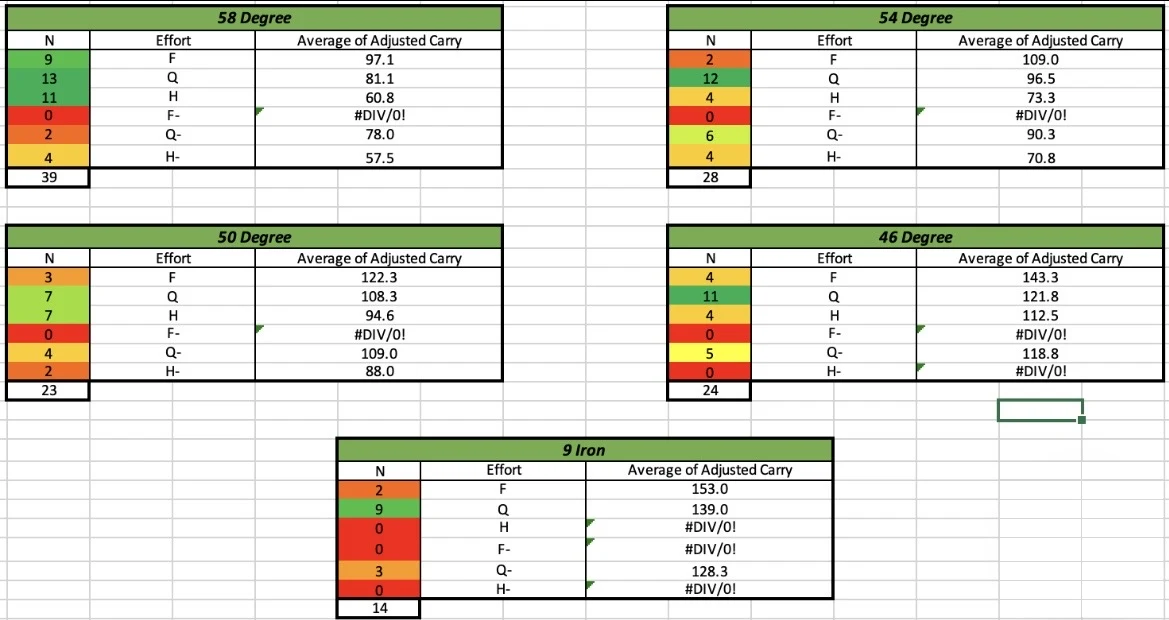
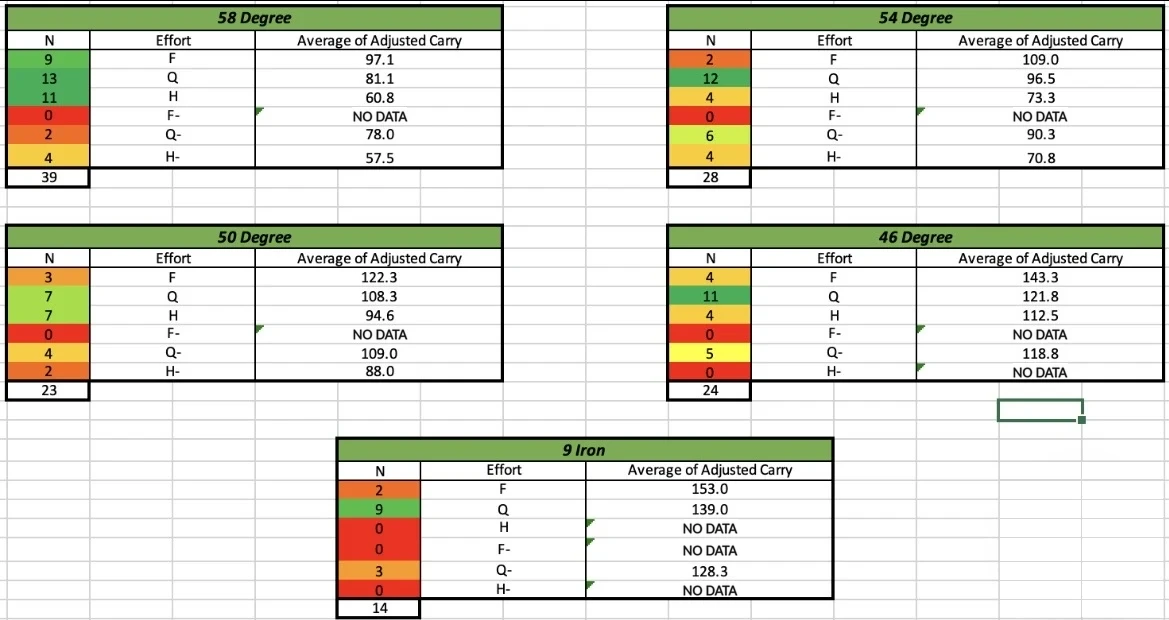
Founder spreadsheet: bigger, NO DATA instead of #DIV/0!
Claude-Session: https://claude.ai/code/session_01NJUMKYMcGw2rW6okt3TvAR

diff --git a/coach.html b/coach.html
@@ -97,7 +97,7 @@ h3{font-weight:800;font-size:20px;line-height:1.25;margin:0 0 6px;letter-spacing
 .step .n{font-size:13px;font-weight:800;color:var(--gold-ink);letter-spacing:.1em;margin-bottom:4px}
 
 .feature{display:grid;grid-template-columns:1fr 1fr;gap:64px;align-items:center}
-.story{display:grid;grid-template-columns:1.05fr .95fr;gap:56px;align-items:center}
+.story{display:grid;grid-template-columns:.85fr 1.15fr;gap:44px;align-items:center}
 .story p{font-size:18px;line-height:1.6;color:var(--ink);margin:0 0 16px}
 .story .sig{font-weight:800;margin-top:22px}.story .sig span{display:block;font-weight:500;color:var(--muted);font-size:15px}
 .stats{display:grid;grid-template-columns:repeat(3,1fr);gap:12px;margin:26px 0 0}

diff --git a/index.html b/index.html
@@ -97,7 +97,7 @@ h3{font-weight:800;font-size:20px;line-height:1.25;margin:0 0 6px;letter-spacing
 .step .n{font-size:13px;font-weight:800;color:var(--gold-ink);letter-spacing:.1em;margin-bottom:4px}
 
 .feature{display:grid;grid-template-columns:1fr 1fr;gap:64px;align-items:center}
-.story{display:grid;grid-template-columns:1.05fr .95fr;gap:56px;align-items:center}
+.story{display:grid;grid-template-columns:.85fr 1.15fr;gap:44px;align-items:center}
 .story p{font-size:18px;line-height:1.6;color:var(--ink);margin:0 0 16px}
 .story .sig{font-weight:800;margin-top:22px}.story .sig span{display:block;font-weight:500;color:var(--muted);font-size:15px}
 .stats{display:grid;grid-template-columns:repeat(3,1fr);gap:12px;margin:26px 0 0}

diff --git a/privacy.html b/privacy.html
@@ -97,7 +97,7 @@ h3{font-weight:800;font-size:20px;line-height:1.25;margin:0 0 6px;letter-spacing
 .step .n{font-size:13px;font-weight:800;color:var(--gold-ink);letter-spacing:.1em;margin-bottom:4px}
 
 .feature{display:grid;grid-template-columns:1fr 1fr;gap:64px;align-items:center}
-.story{display:grid;grid-template-columns:1.05fr .95fr;gap:56px;align-items:center}
+.story{display:grid;grid-template-columns:.85fr 1.15fr;gap:44px;align-items:center}
 .story p{font-size:18px;line-height:1.6;color:var(--ink);margin:0 0 16px}
 .story .sig{font-weight:800;margin-top:22px}.story .sig span{display:block;font-weight:500;color:var(--muted);font-size:15px}
 .stats{display:grid;grid-template-columns:repeat(3,1fr);gap:12px;margin:26px 0 0}

diff --git a/support.html b/support.html
@@ -97,7 +97,7 @@ h3{font-weight:800;font-size:20px;line-height:1.25;margin:0 0 6px;letter-spacing
 .step .n{font-size:13px;font-weight:800;color:var(--gold-ink);letter-spacing:.1em;margin-bottom:4px}
 
 .feature{display:grid;grid-template-columns:1fr 1fr;gap:64px;align-items:center}
-.story{display:grid;grid-template-columns:1.05fr .95fr;gap:56px;align-items:center}
+.story{display:grid;grid-template-columns:.85fr 1.15fr;gap:44px;align-items:center}
 .story p{font-size:18px;line-height:1.6;color:var(--ink);margin:0 0 16px}
 .story .sig{font-weight:800;margin-top:22px}.story .sig span{display:block;font-weight:500;color:var(--muted);font-size:15px}
 .stats{display:grid;grid-template-columns:repeat(3,1fr);gap:12px;margin:26px 0 0}

diff --git a/teams.html b/teams.html
@@ -97,7 +97,7 @@ h3{font-weight:800;font-size:20px;line-height:1.25;margin:0 0 6px;letter-spacing
 .step .n{font-size:13px;font-weight:800;color:var(--gold-ink);letter-spacing:.1em;margin-bottom:4px}
 
 .feature{display:grid;grid-template-columns:1fr 1fr;gap:64px;align-items:center}
-.story{display:grid;grid-template-columns:1.05fr .95fr;gap:56px;align-items:center}
+.story{display:grid;grid-template-columns:.85fr 1.15fr;gap:44px;align-items:center}
 .story p{font-size:18px;line-height:1.6;color:var(--ink);margin:0 0 16px}
 .story .sig{font-weight:800;margin-top:22px}.story .sig span{display:block;font-weight:500;color:var(--muted);font-size:15px}
 .stats{display:grid;grid-template-columns:repeat(3,1fr);gap:12px;margin:26px 0 0}
